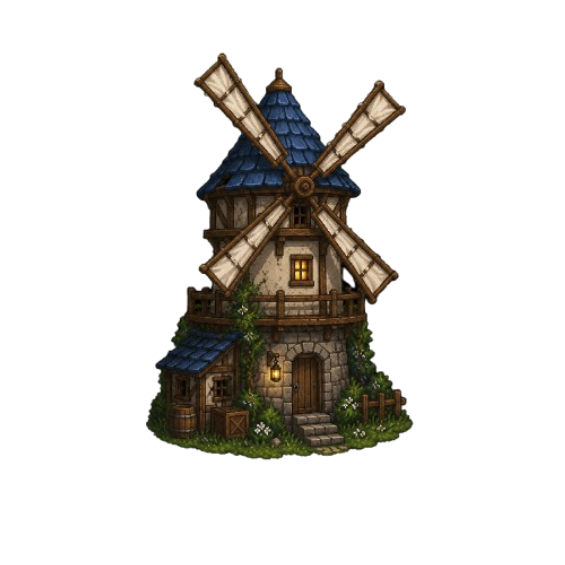
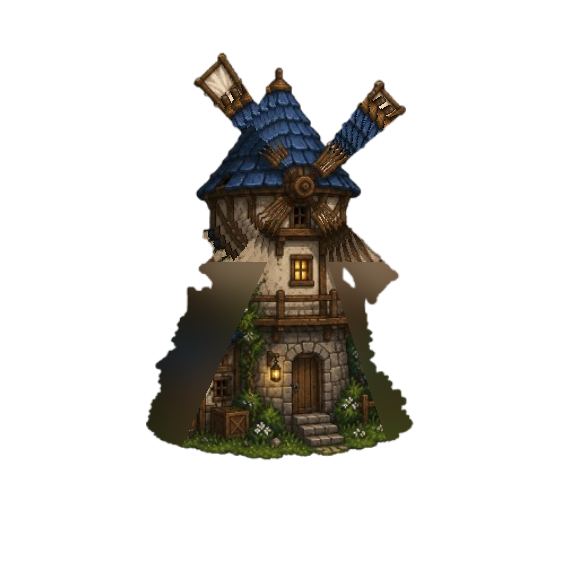
Restaure la rotation des pales du moulin
Les références n'étant qu'une seule image peinte (pas de calque de
pales séparé), une première passe avait laissé les pales fixes. Sur
demande explicite, extraction + reconstruction pour retrouver une
vraie rotation liée au vent :

- Détection du centre de rotation par similarité à 90° (script Python
  scipy/skimage), extraction géométrique des pales qui se détachent
  proprement de la tour, reconstruites en rotor à 4 pales par symétrie
  (une pale propre dupliquée/tournée 90/180/270°) plutôt que les 4
  telles quelles (les 2 autres croisent la fenêtre/le balcon, pas de
  séparation propre possible).
- assets/windmill/windmill.png + windmill_damaged.png remplacés par
  les versions "tour seule" (trou laissé par les pales rebouché :
  copie radiale pour la toiture conique, flou large en repli pour le
  mur). Trace résiduelle très légère à l'endroit du croisement,
  invisible à la taille d'affichage réelle du jeu (~50-70px) — vérifié
  en rendant la composite à cette échelle avant de livrer.
- assets/windmill/windmill_blades.png + windmill_blades_damaged.png
  (nouveaux) : le rotor, à part.
- house_sprite.gd : mécanisme générique et optionnel
  (setup_rotating_overlay) — texture secondaire tournant autour d'un
  point local, inerte par défaut (null), donc zéro changement pour les
  5 maisons qui ne l'appellent jamais. L'angle n'avance que pendant la
  phase "intact", donc les pales se figent d'elles-mêmes dès que
  l'effondrement démarre.
[…]

diff --git a/README.md b/README.md
@@ -23,7 +23,11 @@ Reconstruction indépendante, pas un portage automatique : le rendu canvas, le H
   Trois défauts remontés après un premier test en jeu, tous corrigés dans la foulée : (1) *trous visibles pendant la transition* — l'intacte et l'endommagée sont deux dessins indépendants, pas juste de ratio différent ; les recopier l'une sur l'autre cellule par cellule pouvait coller un fragment endommagé plus transparent exactement là où l'intacte était pleine (bord de toiture typiquement), créant un trou qui n'existe dans aucune des deux images sources — corrigé en remplaçant la recopie franche par une composition alpha (`Image.blend_rect` : ne peut mathématiquement jamais rendre un pixel plus transparent qu'il ne l'était, donc plus jamais de trou). (2) *taille qui change en ruine* (remonté sur la maison dorée) — un premier alignement sur le centre de masse + écart-type de chaque image se faisait avoir par les éléments fins (une cheminée haute et fine ajoute peu de masse mais tire l'écart-type vers le haut), donc ne garantissait pas que le corps solide de la maison fasse la même taille apparente malgré des statistiques parfaitement alignées — remplacé par un alignement sur la boîte des lignes/colonnes dont la masse dépasse 30% du maximum de cet axe, qui ignore les extensions fines et cale uniquement le corps dense ; validé en rendant des comparaisons côte-à-côte sur les 3 formes de maison avant de porter le calcul dans le jeu. (3) *une ou deux cases qui restent "toutes neuves"* — les cases mises en réserve pour l'effondrement ne sont jamais touchées par le tremblement continu ; si le vent stagne sous le seuil d'effondrement, elles pouvaient rester intactes à 100% pendant que tout le reste s'était déjà fissuré, lisant comme un morceau neuf et trop vif collé sur une maison par ailleurs délabrée — corrigé par une teinte d'usure discrète appliquée une fois sur chaque case réservée une fois le tremblement presque saturé, sans consommer la case (le morceau reste disponible pour l'effondrement). **Poussé, pas encore vérifié — troisième itération sur la transition, donc à confirmer particulièrement soigneusement au prochain test.**
 
   Densité de fissures réduite sur demande (retour : légèrement trop de fissures visibles pendant le tremblement) — ajustement de quantité uniquement, rien d'autre dans la transition n'a changé : une fraction des cases fines (`CRACK_KEEP_FRACTION`, 70%) est tirée au sort une fois par maison, par un jet indépendant du seuil de révélation existant (pour ne pas biaiser vers les cases qui craquaient déjà tôt), comme seules éligibles à se révéler un jour ; les autres restent en texture intacte en permanence, comme les cases réservées mais sans leur traitement dédié. `FINE_CELL_PX` n'a volontairement pas bougé — c'est ce qui contrôle la taille de chaque case, pas leur nombre, et y toucher risquait de réintroduire l'effet « carrés visibles » corrigé plus haut. **Poussé, pas encore vérifié.**
-- [x] **Moulin intégré au système de bâtiments façon maisons** (`world_scene.gd`, `assets/windmill/`) : débloqué une fois les références (intacte + endommagée, même format que les maisons) réellement fournies. Réutilise `HouseSprite` telle quelle — aucune ligne changée dans `house_sprite.gd` — plutôt qu'un système indépendant, demandé explicitement ; cette classe n'a rien de spécifique aux maisons (les paramètres couleur mur/toit ne servent qu'à teinter les débris), donc l'instancier avec les textures/couleurs/graine du moulin suffit à lui donner exactement le même tremblement → fissures → effondrement en pièces que les 5 maisons, taille de collapse la plus grande (`size_tier` 2). Repositionné par rapport à l'ancien moulin procédural (`fx=0.90, fy=0.36` → `fx=0.76, fy=0.54`, hauteur `u*0.30` au lieu de `u*0.32`) : la référence peinte est un cadre quasi carré (les pales diagonales touchent presque les bords du visuel), près de 3x plus large que l'ancienne silhouette procédurale à hauteur égale — gardée à `fx=0.90` elle dépassait de l'écran en portrait et chevauchait les maisons bleue/violette. Repositionnement vérifié par calcul du rectangle réel de chaque maison et du moulin (même formule que `_add_houses`) sur un large panel de résolutions (390×844 à 3440×1440, portrait et paysage) plutôt que testé à l'œil sur une seule taille d'écran. Son empreinte alimente aussi le système d'évitement des arbres mis en place juste au-dessus, donc un arbre ne peut pas plus spawner dans le moulin que dans une maison. **Compromis technique à noter** : l'ancien moulin faisait tourner ses pales en continu selon le vent (`_windmill_angle`) ; ce n'est plus possible avec un sprite peint statique unique (la référence ne fournit pas les pales comme calque séparable) — les pales sont maintenant fixes, comme n'importe quel détail peint des maisons. Ancien `windmill_sprite.gd` (procédural, rotation incluse) supprimé, plus aucune référence dans le code. **Poussé, pas encore vérifié.**
+- [x] **Moulin intégré au système de bâtiments façon maisons** (`world_scene.gd`, `assets/windmill/`) : débloqué une fois les références (intacte + endommagée, même format que les maisons) réellement fournies. Réutilise `HouseSprite` telle quelle — aucune ligne changée dans `house_sprite.gd` — plutôt qu'un système indépendant, demandé explicitement ; cette classe n'a rien de spécifique aux maisons (les paramètres couleur mur/toit ne servent qu'à teinter les débris), donc l'instancier avec les textures/couleurs/graine du moulin suffit à lui donner exactement le même tremblement → fissures → effondrement en pièces que les 5 maisons, taille de collapse la plus grande (`size_tier` 2). Repositionné par rapport à l'ancien moulin procédural (`fx=0.90, fy=0.36` → `fx=0.76, fy=0.54`, hauteur `u*0.30` au lieu de `u*0.32`) : la référence peinte est un cadre quasi carré (les pales diagonales touchent presque les bords du visuel), près de 3x plus large que l'ancienne silhouette procédurale à hauteur égale — gardée à `fx=0.90` elle dépassait de l'écran en portrait et chevauchait les maisons bleue/violette. Repositionnement vérifié par calcul du rectangle réel de chaque maison et du moulin (même formule que `_add_houses`) sur un large panel de résolutions (390×844 à 3440×1440, portrait et paysage) plutôt que testé à l'œil sur une seule taille d'écran. Son empreinte alimente aussi le système d'évitement des arbres mis en place juste au-dessus, donc un arbre ne peut pas plus spawner dans le moulin que dans une maison. Ancien `windmill_sprite.gd` (procédural) supprimé, plus aucune référence dans le code.
+
+  **Pales à nouveau tournantes, sur demande explicite** (`house_sprite.gd`, `assets/windmill/windmill_blades*.png`) : la référence fournie est une seule image peinte, pales comprises, sans calque séparé — au départ les pales étaient donc restées fixes (compromis annoncé). Retravaillé pour restaurer une vraie rotation liée au vent plutôt que d'en rester là. `house_sprite.gd` gagne un mécanisme optionnel et générique — `setup_rotating_overlay()` : une texture secondaire tournant en continu autour d'un point local, dessinée par-dessus la composite — inerte par défaut (`null`), donc toujours zéro changement pour les 5 maisons, qui ne l'appellent jamais ; l'angle n'avance que pendant la phase "intact" (voir `_process()`), donc les pales se figent d'elles-mêmes dès que l'effondrement démarre plutôt que de tourner indéfiniment sur une ruine. Vitesse pilotée depuis `world_scene.gd` (même table par palier de vent + même multiplicateur que l'ancien `windmill_sprite.gd`, pour garder la même sensation), pas codée en dur dans la classe générique.
+
+  Séparer les pales de la tour dans une seule image peinte plate n'a pas de solution parfaite sans les calques d'origine : détection du centre de rotation par similarité de rotation à 90° (script Python, `scipy`/`skimage`), extraction géométrique des pales (deux d'entre elles se détachent proprement de la tour ; les deux autres croisent la fenêtre/le balcon, donc pas de séparation propre possible par ce biais), et un remplissage hybride du trou laissé dans la tour (copie radiale pour la toiture conique, qui se prête bien à ce genre de recopie ; flou large en repli pour le mur, moins régulier). Le résultat garde une trace très légère (un flou diffus) à l'endroit où les pales croisaient le mur/toit — **invisible à la taille d'affichage réelle du jeu (~50-70px), vérifié en rendant la composite à cette échelle avant de livrer**, mais visible en zoomant sur le PNG source. Rotor à 4 pales reconstruit par symétrie (une seule pale extraite proprement, dupliquée/tournée 90/180/270°) plutôt que les 4 telles quelles, pour un résultat propre et cohérent plutôt que de garder les 2 pales mal séparées. **Poussé, pas encore vérifié.**
 - [ ] Fumée des cheminées animée (détail mineur, pas encore fait — celle des références a été retirée sur demande)
 - [ ] Son du tonnerre (synthétisé, comme l'original) sur les éclairs — pas nécessaire pour l'instant
 - [ ] Passe de fidélité visuelle (bois/parchemin/or, dock en pierre) + curseur personnalisé selon le survol — à faire ensemble, nécessitera des allers-retours avec des captures d'écran, comme pour l'Arbre du Chaos sur la version web
